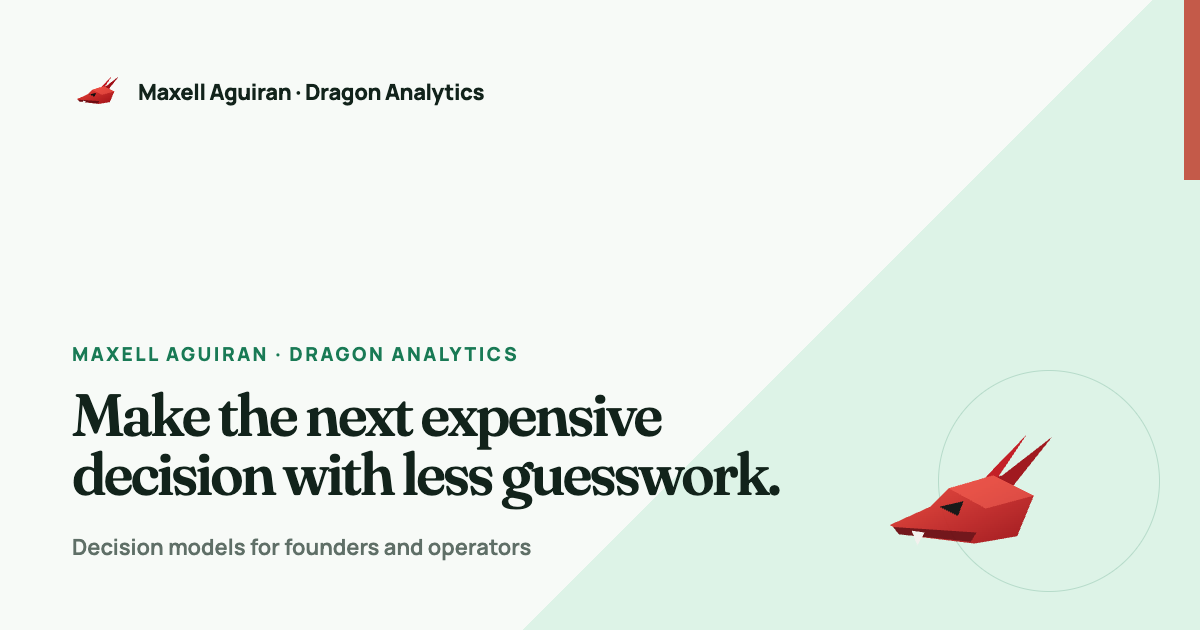
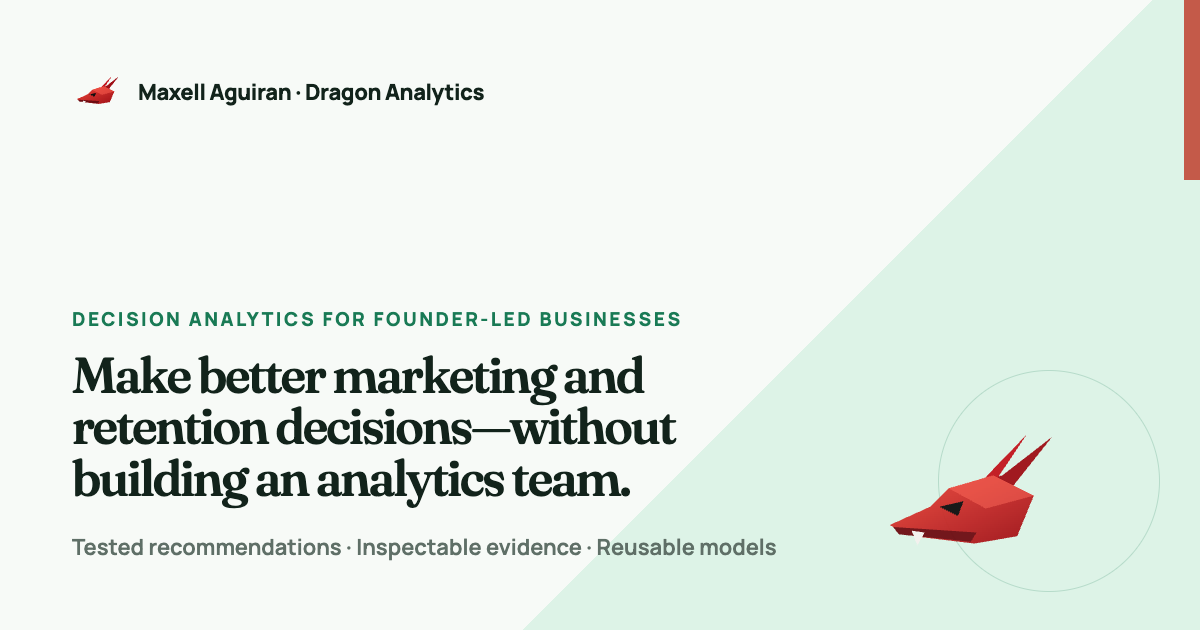
Clarify homepage value proposition

Changed region(s): [[0.0617, 0.4825, 0.6475, 0.8143], [0.0617, 0.8444, 0.6475, 0.9048]]

diff --git a/index.html b/index.html
@@ -3,22 +3,22 @@
 <head>
   <meta charset="utf-8">
   <meta name="viewport" content="width=device-width,initial-scale=1">
-  <title>Maxell Aguiran | Decision Models for Operators</title>
-  <meta name="description" content="Maxell Aguiran helps founders and operators make recurring marketing-allocation and customer-retention decisions with tested, inspectable models.">
+  <title>Maxell Aguiran | Decision Analytics for Founder-Led Businesses</title>
+  <meta name="description" content="Make better marketing and retention decisions without building an analytics team. Maxell Aguiran delivers tested recommendations, inspectable evidence, and reusable models.">
   <link rel="canonical" href="https://maxellaguiran.github.io/">
   <link rel="icon" type="image/svg+xml" href="assets/favicon.svg">
   <meta name="theme-color" content="#F7FAF7">
   <meta property="og:type" content="profile">
   <meta property="og:site_name" content="Maxell Aguiran">
-  <meta property="og:title" content="Make the next expensive decision with less guesswork.">
-  <meta property="og:description" content="Decision models for operators: marketing allocation, customer retention, clear baselines, and evidence the model did not train on.">
+  <meta property="og:title" content="Make better marketing and retention decisions—without building an analytics team.">
+  <meta property="og:description" content="Decision analytics for founder-led businesses: tested recommendations, inspectable evidence, and reusable models.">
   <meta property="og:url" content="https://maxellaguiran.github.io/">
   <meta property="og:image" content="https://maxellaguiran.github.io/assets/social/home.png">
   <meta property="og:image:width" content="1200">
   <meta property="og:image:height" content="630">
   <meta name="twitter:card" content="summary_large_image">
-  <meta name="twitter:title" content="Make the next expensive decision with less guesswork.">
-  <meta name="twitter:description" content="Decision models for operators, tested against simple baselines before they earn a place in the workflow.">
+  <meta name="twitter:title" content="Make better marketing and retention decisions—without building an analytics team.">
+  <meta name="twitter:description" content="Decision analytics for founder-led businesses: tested recommendations, inspectable evidence, and reusable models.">
   <meta name="twitter:image" content="https://maxellaguiran.github.io/assets/social/home.png">
   <link rel="preload" href="assets/fonts/manrope-latin-variable.woff2" as="font" type="font/woff2" crossorigin>
   <link rel="preload" href="assets/fonts/fraunces-latin-variable.woff2" as="font" type="font/woff2" crossorigin>
@@ -29,8 +29,8 @@
     "@type": "ProfilePage",
     "@id": "https://maxellaguiran.github.io/#profile",
     "url": "https://maxellaguiran.github.io/",
-    "name": "Maxell Aguiran | Decision Models for Operators",
-    "description": "Maxell Aguiran builds tested decision models for marketing allocation and customer retention through Dragon Analytics.",
+    "name": "Maxell Aguiran | Decision Analytics for Founder-Led Businesses",
+    "description": "Maxell Aguiran helps founder-led businesses make marketing-allocation and customer-retention decisions with tested recommendations, inspectable evidence, and reusable models.",
     "mainEntity": {
       "@type": "Person",
       "@id": "https://maxellaguiran.github.io/#maxell-aguiran",
@@ -54,11 +54,11 @@
   <main id="main">
     <section class="hero founder-hero">
       <div class="hero-copy">
-        <div class="eyebrow">Maxell Aguiran · Dragon Analytics</div>
-        <h1>Make the next expensive decision with less guesswork.</h1>
-        <p>I build decision models for operators who need to know where the next unit of budget should go—or which customer relationships deserve attention first. Every model must beat a simple baseline on evidence it did not train on.</p>
-        <div class="hero-actions"><a class="button" href="#proof">See the allocation case</a><a class="button secondary" href="#contact">Bring me a decision</a></div>
-        <div class="hero-proofline"><span>Marketing allocation</span><span>Customer retention</span><span>Reproducible handover</span></div>
+        <div class="eyebrow">Decision analytics for founder-led businesses</div>
+        <h1>Make better marketing and retention decisions—without building an analytics team.</h1>
+        <p>I help founders decide where the next budget dollar should go and which customer relationships need attention first. You get a tested recommendation, the evidence behind it, and a model your team can reuse.</p>
+        <div class="hero-actions"><a class="button" href="#proof">See a budget decision</a><a class="button secondary" href="#contact">Discuss your decision</a></div>
+        <div class="hero-proofline"><span>Fixed-budget allocation</span><span>At-risk customer priorities</span><span>No baseline win, no recommendation</span></div>
       </div>
       <aside class="decision-brief" aria-label="Flagship case evidence summary" data-case-summary data-state="loading">
         <div class="decision-brief-top"><span>Decision evidence</span><span>Checked artifact</span></div>

diff --git a/styles.css b/styles.css
@@ -357,8 +357,8 @@ th { color: var(--muted); font-size: .68rem; letter-spacing: .05em; text-transfo
 .nav-conversation { margin-left: .35rem; background: var(--ink); color: var(--surface) !important; }
 .nav-conversation:hover { background: var(--green-dark) !important; color: var(--surface) !important; }
 
-.founder-hero { grid-template-columns: minmax(0,1.12fr) minmax(300px,.72fr); gap: clamp(2rem,5vw,4.5rem); padding-block: clamp(2.8rem,4.3vw,3rem); }
-.founder-hero h1 { max-width: 13ch; }
+.founder-hero { grid-template-columns: minmax(0,1.4fr) minmax(300px,.64fr); gap: clamp(2rem,4vw,3.5rem); padding-block: clamp(2.8rem,4.3vw,3rem); }
+.founder-hero h1 { max-width: none; }
 .founder-hero .hero-copy > p { max-width: 68ch; }
 .decision-brief { align-self: center; padding: 1.35rem; border: 1px solid var(--line-dark); border-radius: var(--radius-small); background: var(--surface); box-shadow: var(--shadow-small); }
 .decision-brief-top { display: flex; justify-content: space-between; gap: 1rem; padding-bottom: .85rem; border-bottom: 1px solid var(--line); color: var(--green-dark); font-size: .7rem; font-weight: 800; letter-spacing: .08em; text-transform: uppercase; }
@@ -590,12 +590,14 @@ th { color: var(--muted); font-size: .68rem; letter-spacing: .05em; text-transfo
 
 @media (max-width: 520px) {
   .section { padding-block: 2rem; }
-  .founder-hero, .work-hero { padding-block: 2rem; }
+  .founder-hero { gap: 1.2rem; padding-block: 1.5rem; }
+  .work-hero { padding-block: 2rem; }
   .founder-hero .hero-copy > p, .work-hero .hero-copy > p { font-size: 1rem; line-height: 1.62; }
   .founder-hero .hero-proofline { display: none; }
+  .founder-hero .decision-brief { padding: .9rem; }
   .decision-brief dl > div { grid-template-columns: 70px 1fr; }
-  .decision-brief-top { padding-bottom: .6rem; }
-  .decision-brief dl > div { padding-block: .55rem; }
+  .founder-hero .decision-brief-top { padding-bottom: .45rem; }
+  .founder-hero .decision-brief dl > div { padding-block: .4rem; }
   .case-shell { width: min(calc(100% - 1.4rem),var(--content)); }
   .case-shell { padding-block: 2.5rem; }
   .case-intro { margin-bottom: 1rem; }
